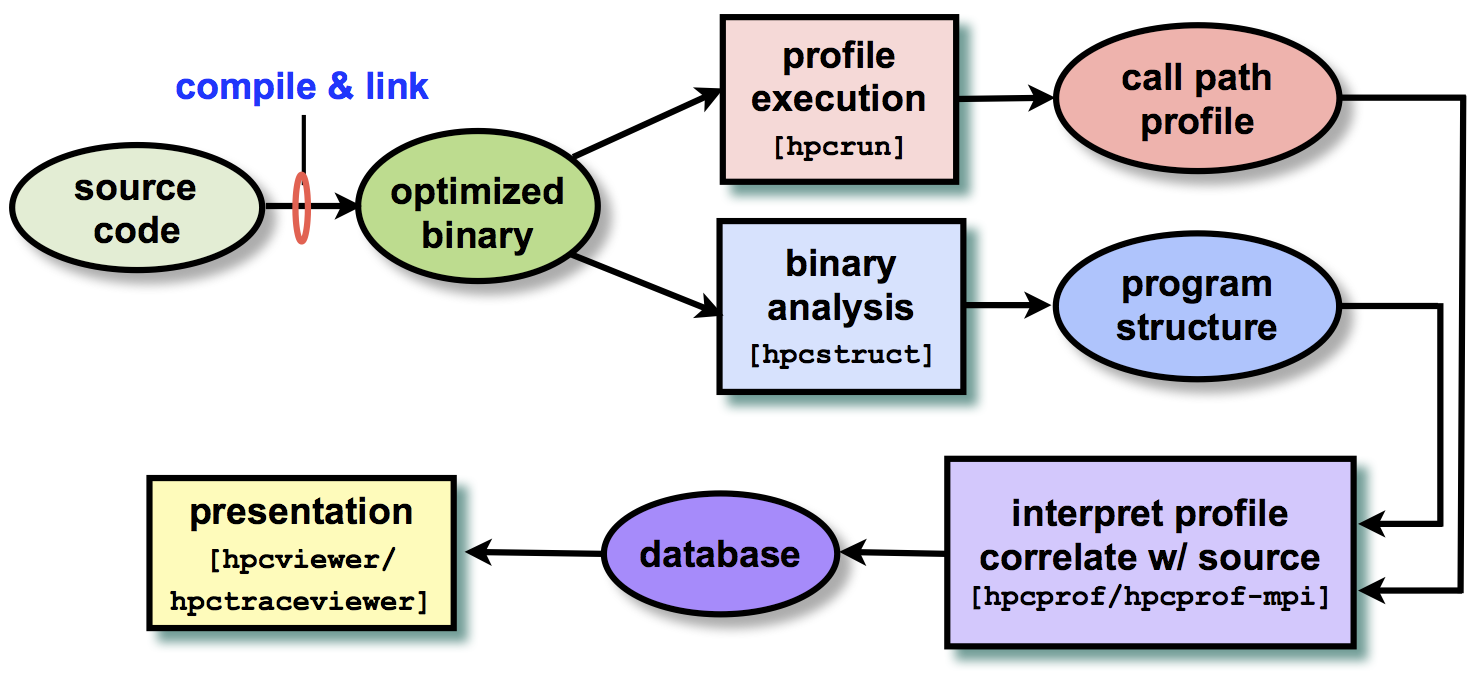
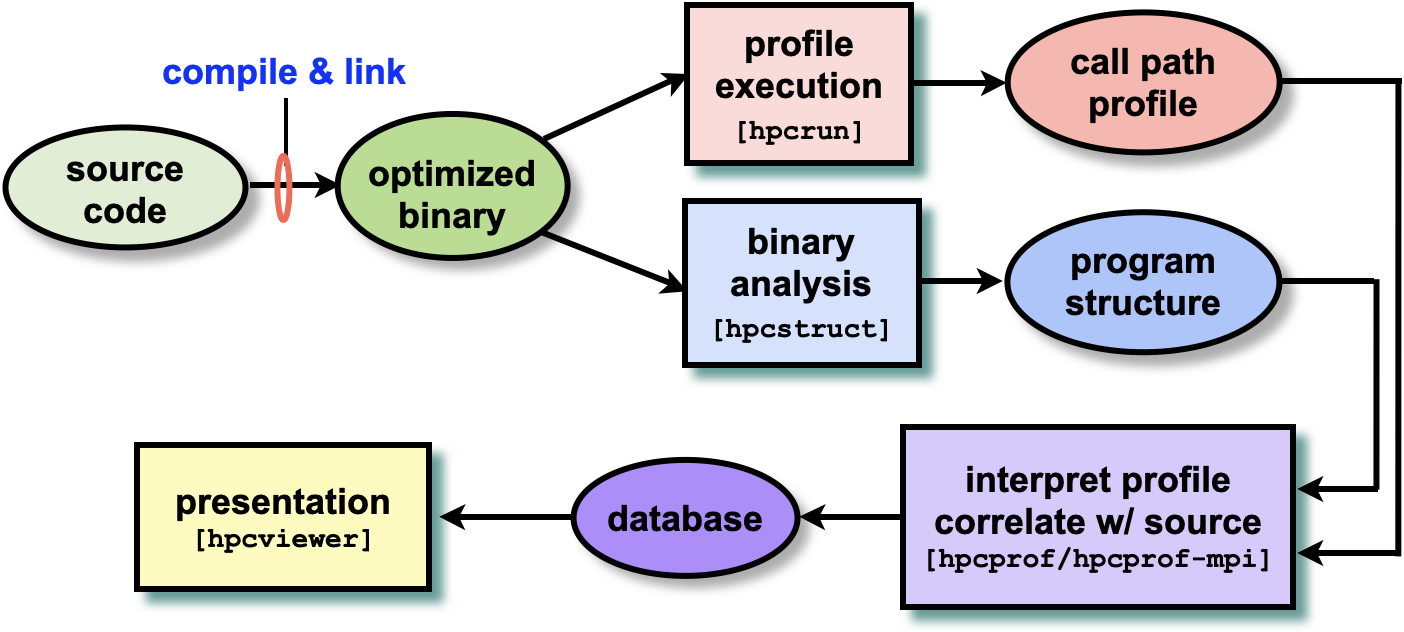
Remove hpctraceviewer from the workflow diagram
Also refine the anchor in software-instruction

diff --git a/doc/www/software-instructions.html b/doc/www/software-instructions.html
@@ -68,7 +68,7 @@
   <li><a name="toc-Blue-Gene" href="#Blue-Gene">11.1 Blue Gene</a></li>
   <li><a name="toc-Cray" href="#Cray">11.2 Cray</a></li>
 </ul></li>
-<li><a name="toc-Hpcviewer-and-Hpctraceviewer" href="#Hpcviewer-and-Hpctraceviewer">12 Hpcviewer</a>
+<li><a name="toc-Hpcviewer" href="#Hpcviewer">12 Hpcviewer</a>
 <ul class="no-bullet">
   <li><a name="toc-Spack-Install-1" href="#Spack-Install-1">12.1 Spack Install</a></li>
   <li><a name="toc-Manual-Install-1" href="#Manual-Install-1">12.2 Manual Install</a></li>
@@ -985,7 +985,7 @@ similar to the following.
 </pre></div>
 
 
-<a name="Hpcviewer-and-Hpctraceviewer"></a>
+<a name="Hpcviewer"></a>
 <h3 class="section">12 Hpcviewer </h3>
 
 <p>We provide binary distributions for hpcviewer on
